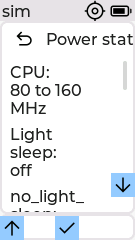
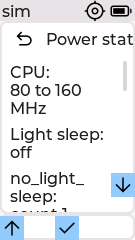
fix(ui): settle the legend band once and give info pages one gap
A SCROLL frame queues a non-settling legend pass. The SCROLL_END settle
cleared its flag but left the call queued, so it ran after the settle and
moved rows without re-pinning the bottom. 80x160 Feedback Events stopped
83 px short of its bottom. Cancel the queued pass at SCROLL_END.

An info page is one full-height container, so it is always narrowed by the
legend reserve. Its right padding took a second gap from what was left, and
the 80x160 About labels were 34 px wide. The Reset row broke over five lines
and could not fit the viewport. Info pages now use addInfoPage(), and the
reservation replaces the container's right padding while it is narrowed.

diff --git a/src/FurbleUI.cpp b/src/FurbleUI.cpp
@@ -2453,6 +2453,24 @@ void UI::applyLegendBandWidths(lv_obj_t *page, bool settle, bool pinBottom, bool
         if (lv_obj_get_style_translate_x(row, LV_PART_MAIN) != translate) {
           lv_obj_set_style_translate_x(row, translate, LV_PART_MAIN);
         }
+        // An info page is one full-height container of wrapped text, so it is in
+        // the band at every scroll position. The reservation already keeps its
+        // text clear of the legend, so its own right padding would only take a
+        // second gap from what is left. On the 80 px StickC that left 34 px and
+        // broke "Reset:" over five lines, taller than the viewport.
+        if (lv_obj_has_flag(row, LV_OBJ_FLAG_USER_1)) {
+          bool padChanged = false;
+          if (rowInBand) {
+            if (lv_obj_get_style_pad_right(row, LV_PART_MAIN) != 0) {
+              lv_obj_set_style_pad_right(row, 0, LV_PART_MAIN);
+              padChanged = true;
+            }
+          } else {
+            padChanged = lv_obj_remove_local_style_prop(row, LV_STYLE_PAD_RIGHT, LV_PART_MAIN);
+          }
+          widthChanged = widthChanged || padChanged;
+          widthChangedAny = widthChangedAny || padChanged;
+        }
       }
       if (!labels) {
         // Mid-gesture passes change only the row box. Label widths, long modes
@@ -2545,8 +2563,12 @@ void UI::legendBandScrollEvent(lv_event_t *e) {
   if (lv_event_get_code(e) == LV_EVENT_SCROLL_END) {
     // Settle immediately once the gesture stops, including encoder focus
     // scrolling that never sends a separate frame event.
+    // Cancel the pass a SCROLL frame queued. It would run after this settle,
+    // re-read the rows at their settled positions, change their widths again
+    // and, being non-settling, leave the bottom row below the new extent.
     if (lv_obj_has_flag(page, LV_OBJ_FLAG_USER_4)) {
       lv_obj_remove_flag(page, LV_OBJ_FLAG_USER_4);
+      lv_async_call_cancel(legendBandDeferred, page);
     }
     applyLegendBandWidths(page, true, true);
     return;
@@ -12046,6 +12068,17 @@ void UI::addTransmitPowerMenu(const menu_t &parent) {
   lv_menu_set_load_page_event(menu.main, menu.button, menu.page);
 }
 
+lv_obj_t *UI::addInfoPage(lv_obj_t *page) {
+  lv_obj_t *cont = lv_menu_cont_create(page);
+  lv_obj_set_width(cont, LV_PCT(100));
+  lv_obj_set_flex_flow(cont, LV_FLEX_FLOW_COLUMN);
+  lv_obj_set_flex_align(cont, LV_FLEX_ALIGN_CENTER, LV_FLEX_ALIGN_CENTER, LV_FLEX_ALIGN_CENTER);
+  // applyLegendBandWidths() drops this container's right padding while the
+  // legend reservation narrows it.
+  lv_obj_add_flag(cont, LV_OBJ_FLAG_USER_1);
+  return cont;
+}
+
 lv_obj_t *UI::addInfoRow(lv_obj_t *cont) {
   lv_obj_t *label = lv_label_create(cont);
   lv_obj_set_width(label, LV_PCT(100));
@@ -12421,10 +12454,7 @@ void UI::addBluetoothMenu(const menu_t &parent) {
 
 void UI::addAboutMenu(const menu_t &parent) {
   menu_t &menu = addMenu(m_AboutStr, &icon_info, true, parent);
-  lv_obj_t *cont = lv_menu_cont_create(menu.page);
-  lv_obj_set_width(cont, LV_PCT(100));
-  lv_obj_set_flex_flow(cont, LV_FLEX_FLOW_COLUMN);
-  lv_obj_set_flex_align(cont, LV_FLEX_ALIGN_CENTER, LV_FLEX_ALIGN_CENTER, LV_FLEX_ALIGN_CENTER);
+  lv_obj_t *cont = addInfoPage(menu.page);
 
   lv_obj_t *version = addInfoRow(cont);
   lv_label_set_text_fmt(version, "Version:\n%s", FURBLE_VERSION);
@@ -12450,10 +12480,7 @@ void UI::addAboutMenu(const menu_t &parent) {
 
 void UI::addDeviceInfoMenu(const menu_t &parent) {
   menu_t &menu = addMenu(m_DeviceInfoStr, NULL, true, parent);
-  lv_obj_t *cont = lv_menu_cont_create(menu.page);
-  lv_obj_set_width(cont, LV_PCT(100));
-  lv_obj_set_flex_flow(cont, LV_FLEX_FLOW_COLUMN);
-  lv_obj_set_flex_align(cont, LV_FLEX_ALIGN_CENTER, LV_FLEX_ALIGN_CENTER, LV_FLEX_ALIGN_CENTER);
+  lv_obj_t *cont = addInfoPage(menu.page);
 
   esp_chip_info_t info;
   esp_chip_info(&info);
@@ -12487,10 +12514,7 @@ void UI::addDeviceInfoMenu(const menu_t &parent) {
 
 void UI::addPowerStateMenu(const menu_t &parent) {
   menu_t &menu = addMenu(m_PowerStateStr, NULL, true, parent);
-  lv_obj_t *cont = lv_menu_cont_create(menu.page);
-  lv_obj_set_width(cont, LV_PCT(100));
-  lv_obj_set_flex_flow(cont, LV_FLEX_FLOW_COLUMN);
-  lv_obj_set_flex_align(cont, LV_FLEX_ALIGN_CENTER, LV_FLEX_ALIGN_CENTER, LV_FLEX_ALIGN_CENTER);
+  lv_obj_t *cont = addInfoPage(menu.page);
 
   // filled in by the diagnostics timer whenever the page is open
   m_Diagnostics.powerFrequency = addInfoRow(cont);
@@ -12521,10 +12545,7 @@ void UI::addPowerStateMenu(const menu_t &parent) {
 
 void UI::addBLEMenu(const menu_t &parent) {
   menu_t &menu = addMenu(m_BLEStr, NULL, true, parent);
-  lv_obj_t *cont = lv_menu_cont_create(menu.page);
-  lv_obj_set_width(cont, LV_PCT(100));
-  lv_obj_set_flex_flow(cont, LV_FLEX_FLOW_COLUMN);
-  lv_obj_set_flex_align(cont, LV_FLEX_ALIGN_CENTER, LV_FLEX_ALIGN_CENTER, LV_FLEX_ALIGN_CENTER);
+  lv_obj_t *cont = addInfoPage(menu.page);
 
   // Filled in by the diagnostics timer whenever the page is open.
   m_Diagnostics.ble = addInfoRow(cont);
@@ -12534,10 +12555,7 @@ void UI::addBLEMenu(const menu_t &parent) {
 
 void UI::addIMUDataMenu(const menu_t &parent) {
   menu_t &menu = addMenu(m_IMUDataStr, NULL, true, parent);
-  lv_obj_t *cont = lv_menu_cont_create(menu.page);
-  lv_obj_set_width(cont, LV_PCT(100));
-  lv_obj_set_flex_flow(cont, LV_FLEX_FLOW_COLUMN);
-  lv_obj_set_flex_align(cont, LV_FLEX_ALIGN_CENTER, LV_FLEX_ALIGN_CENTER, LV_FLEX_ALIGN_CENTER);
+  lv_obj_t *cont = addInfoPage(menu.page);
 
   m_Diagnostics.imuAccel = addInfoRow(cont);
   lv_label_set_text(m_Diagnostics.imuAccel, "Accel (G):\n--");

diff --git a/include/FurbleUI.h b/include/FurbleUI.h
@@ -1491,6 +1491,9 @@ class UI {
   /** Add the live BLE diagnostics page. */
   void addBLEMenu(const menu_t &parent);
 
+  /** Add the full-height container that holds an info page's rows. */
+  static lv_obj_t *addInfoPage(lv_obj_t *page);
+
   /** Add a read only text row to a page container. */
   static lv_obj_t *addInfoRow(lv_obj_t *cont);
 
